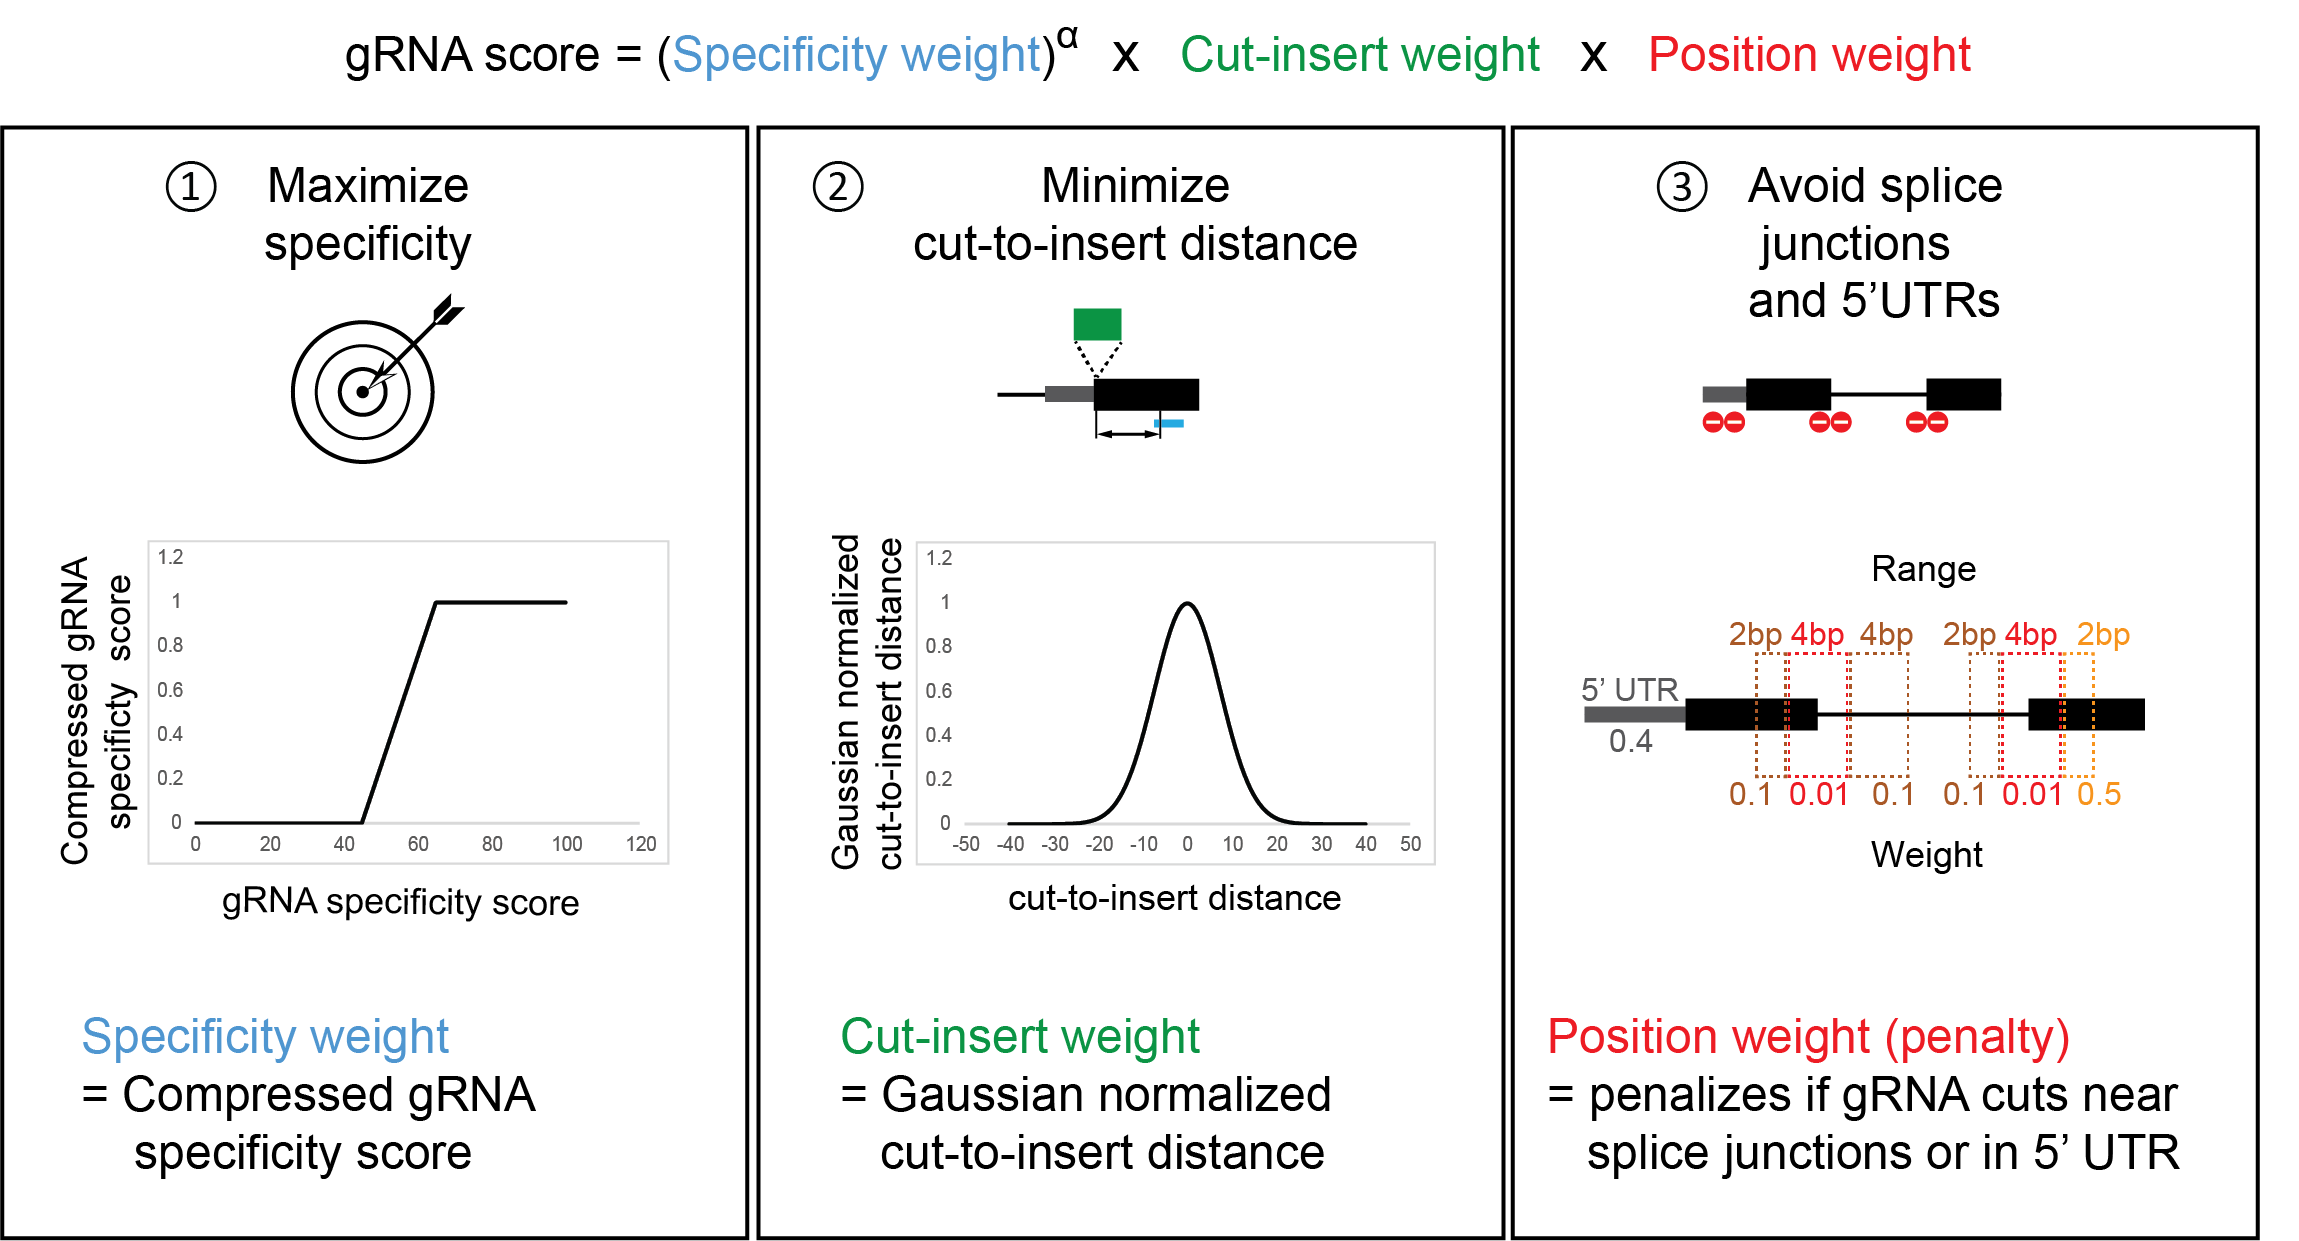
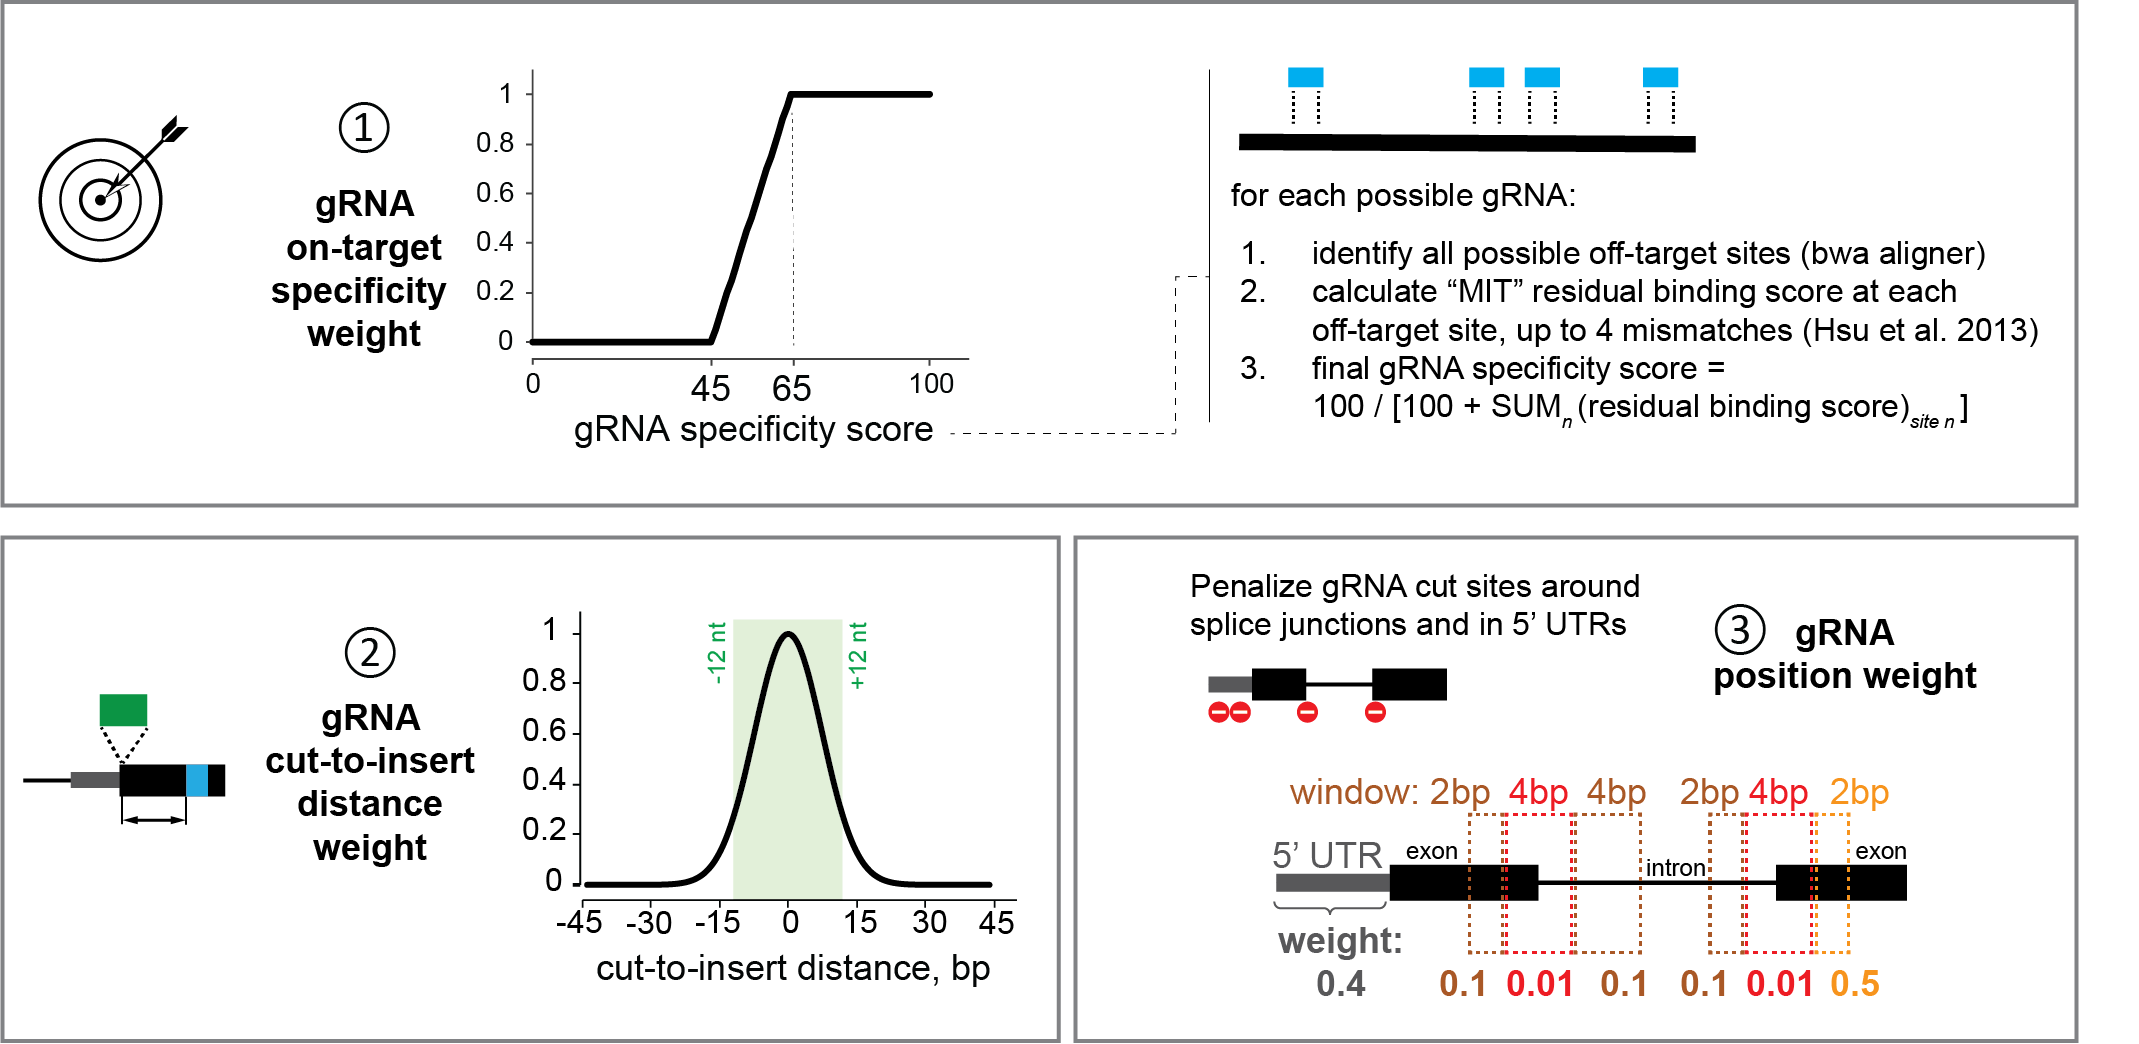
update docs

Changed region(s): [[0.0, 0.0, 0.9874, 1.0], [0.432, 0.2452, 0.5245, 0.3678], [0.8948, 0.3985, 0.9257, 0.4291]]

diff --git a/docs/source/algorithm.rst b/docs/source/algorithm.rst
@@ -9,20 +9,25 @@ Key concepts
    :alt: key_concepts
 |
 |
+Tunable parameters
+.. figure:: /_static/images/tunable_parameters.png
+   :width: 100%
+   :align: center
+   :alt: key_concepts
+|
+|
 gRNA scoring
 ------------
-The gRNAs score is computed from three weights that aim to (1) maximize specificity, (2) minimize cut-to-insert distance and (3) avoid cutting near splice junctions and in 5’ UTRs.
-
+To rank all candidate gRNAs for a possible design, protoSpaceJAM uses a composite ranking score that weighs (1) the on-target specificity of each candidate, (2) the distance between cut and insertion sites, and (3) the position of the gRNA with respect to important gene expression regulatory sequences, namely 5’ untranslated regions (UTRs) and splice sites 
+.. figure:: /_static/images/score.png
+   :width: 100%
+   :align: center
+   :alt: gRNA_scoring
 .. figure:: /_static/images/gRNA.png
    :width: 100%
    :align: center
    :alt: gRNA_scoring
-| Notes:
-| The gRNA specificity score is calculated in three steps:
-| (1) Identify all possible off-target hits of a gRNA in the genome with `BWA <https://bio-bwa.sourceforge.net/>`_. 
-| (2) Calculate the off-target `MIT guide specificity score <https://www.nature.com/articles/nbt.2647>`_ for each off-target hit.  
-| (3) Take the sum of all MIT scores and use formula 100/(100+sum(mitScores)) to calculate the gRNA specificity score.
-| 
+|
 |
 Recoding strategy
 -----------------
@@ -41,15 +46,6 @@ Recoding strategy
       
 | Notes
 | - The Cutting Frequency Determination (CFD) score was created by `Doench et al. <https://www.ncbi.nlm.nih.gov/pmc/articles/PMC4744125/>`_  to calculate the off-target potential of sgRNA:DNA interaction.
-|
-| Region definitions:
-|
-
-.. figure:: /_static/images/region.png
-   :width: 100%
-   :align: center
-   :alt: region_definition
-|
 |
 DNA donor processing strategy
 -----------------------------
